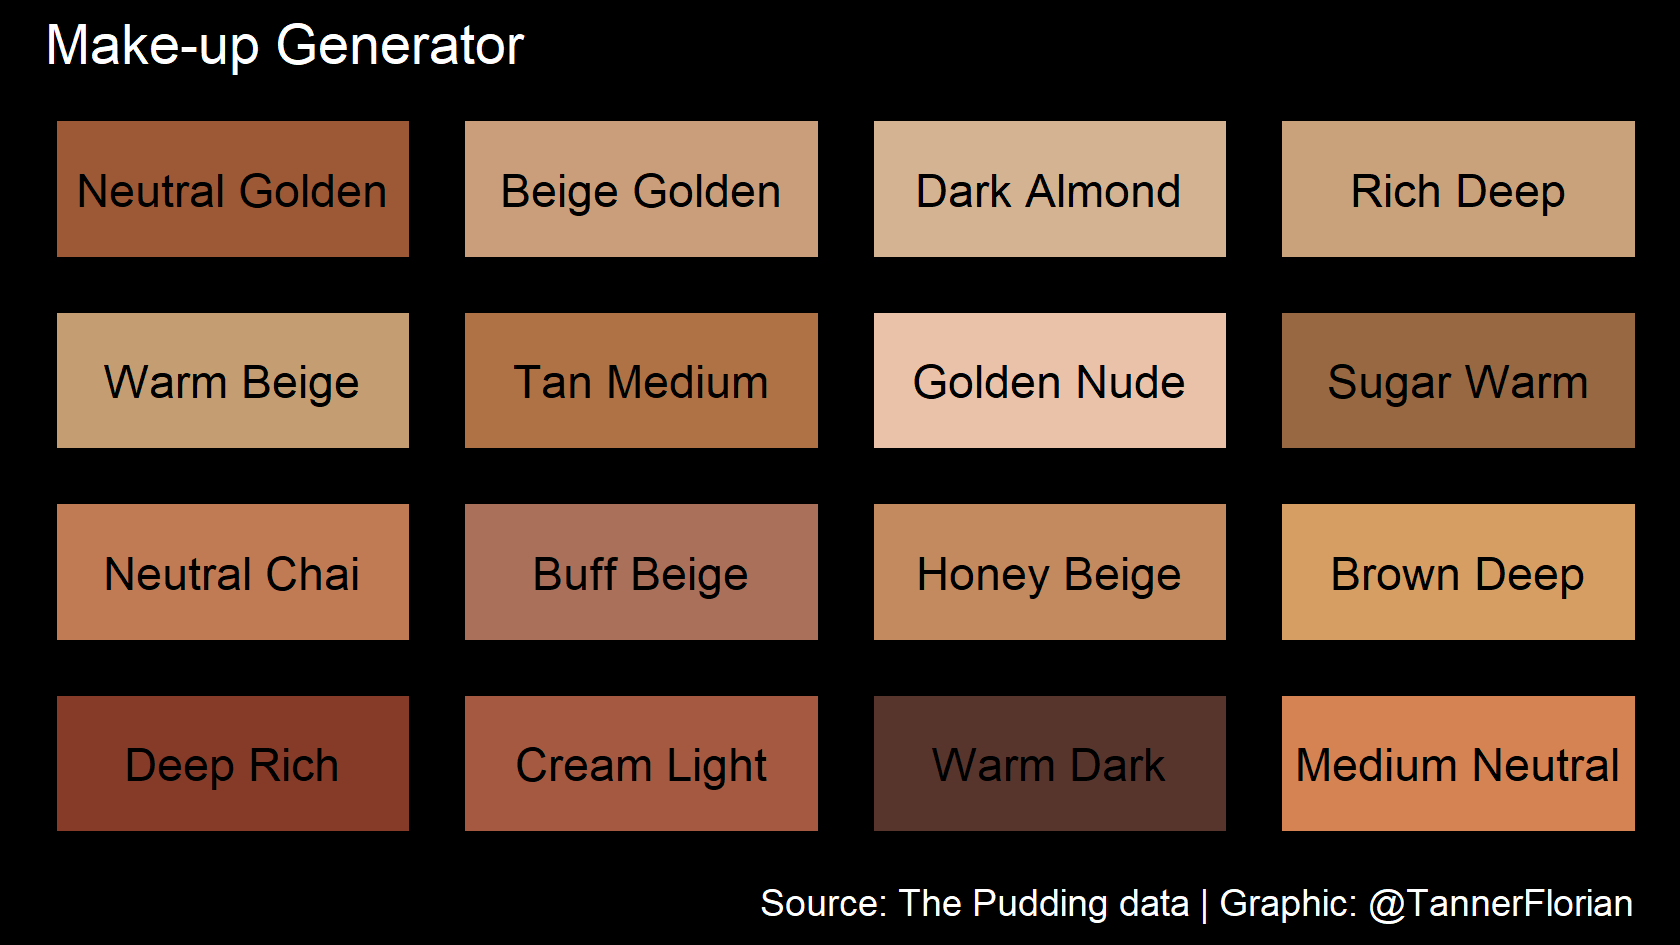
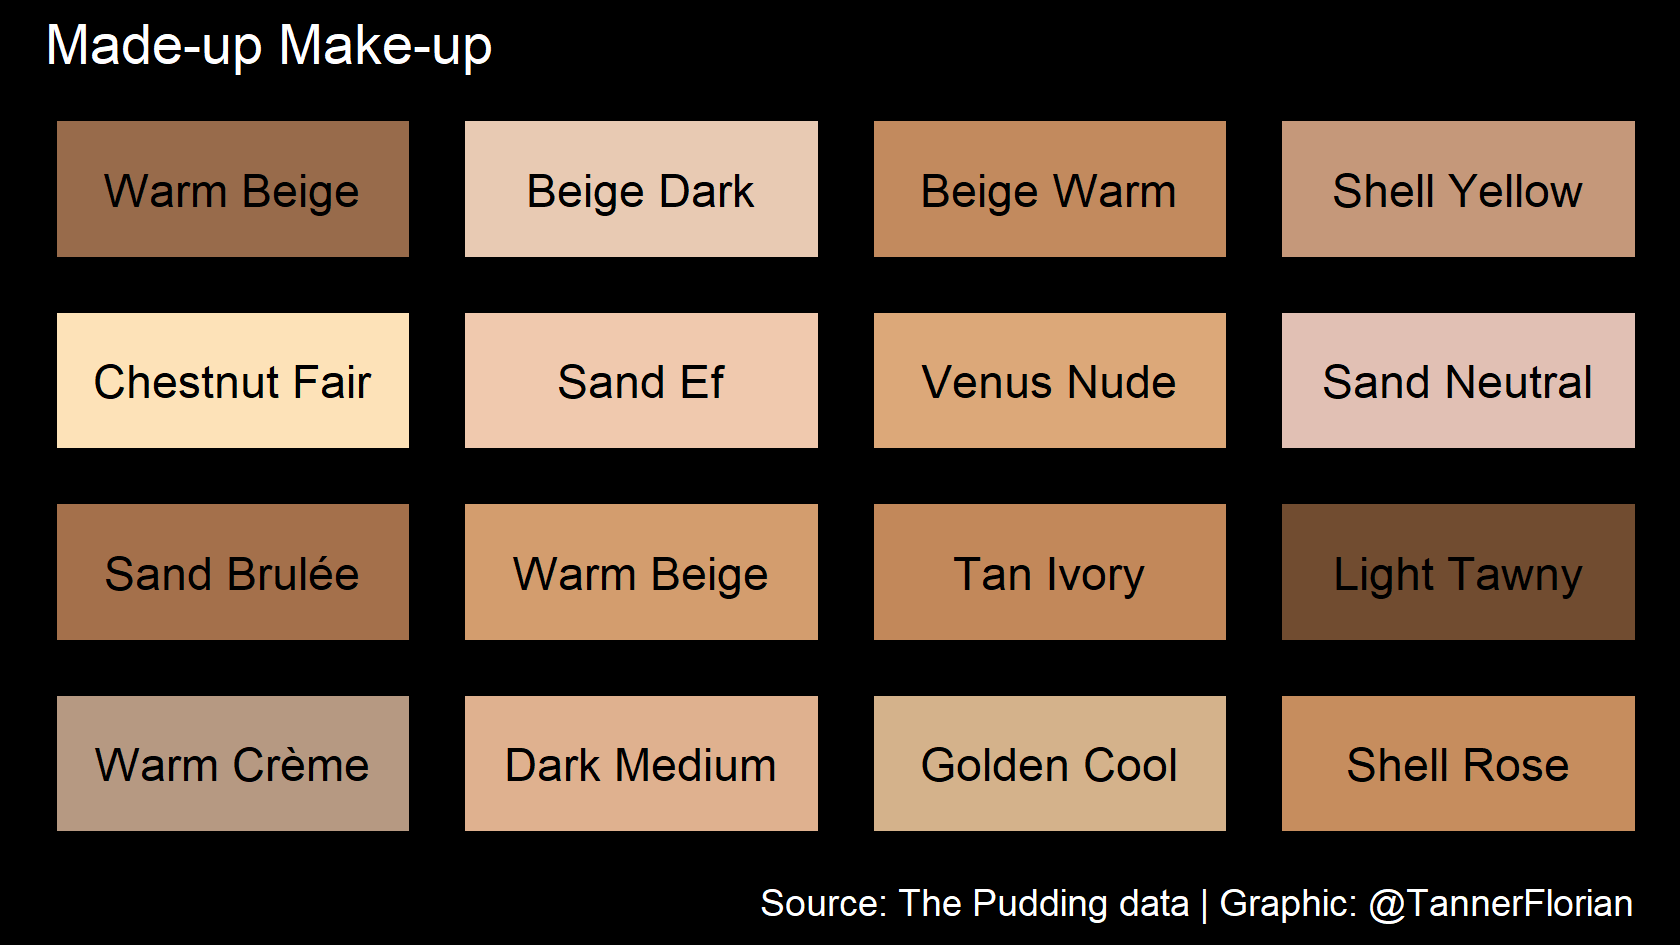
Change title position

diff --git a/2021-03-30 Makeup Shades/2021-03-30-Makeup-Shades.md b/2021-03-30 Makeup Shades/2021-03-30-Makeup-Shades.md
@@ -170,9 +170,9 @@ p14 <- plot_random_makeup()
 p15 <- plot_random_makeup()
 p16 <- plot_random_makeup()
 
-p <- p1 + p2 + p3 + p4+ p5 + p6 + p7 + p8 + p9 + p10 + p11 + p12 + p13 + p14 + p15 + p16 + plot_annotation(title = "Make-up Generator", caption = "Source: The Pudding data | Graphic: @TannerFlorian") &
+p <- p1 + p2 + p3 + p4+ p5 + p6 + p7 + p8 + p9 + p10 + p11 + p12 + p13 + p14 + p15 + p16 + plot_annotation(title = "Made-up Make-up", caption = "Source: The Pudding data | Graphic: @TannerFlorian") &
   theme(plot.background = element_rect(fill = "black", color = "black"),
-        text = element_text(color = "white"))
+        text = element_text(color = "white", hjust = 0.5))
 
 p
 ```

diff --git a/README.md b/README.md
@@ -7,7 +7,8 @@ This repo contains selected [TidyTuesday](https://github.com/rfordatascience/tid
 
 ## 2021-03-30 Makeup Shades
 
-This week, something a bit silly: A random generator of make-up products
+No analysis this week, instead, I built a random generator of make-up products:
+
 [Code](https://github.com/FCTanner/tidy_tuesday/blob/main/2021-03-30%20Makeup%20Shades/2021-03-30-Makeup-Shades.md)
 
 ![alt text](https://github.com/FCTanner/tidy_tuesday/blob/main/2021-03-30%20Makeup%20Shades/Random%20make-up.png)
